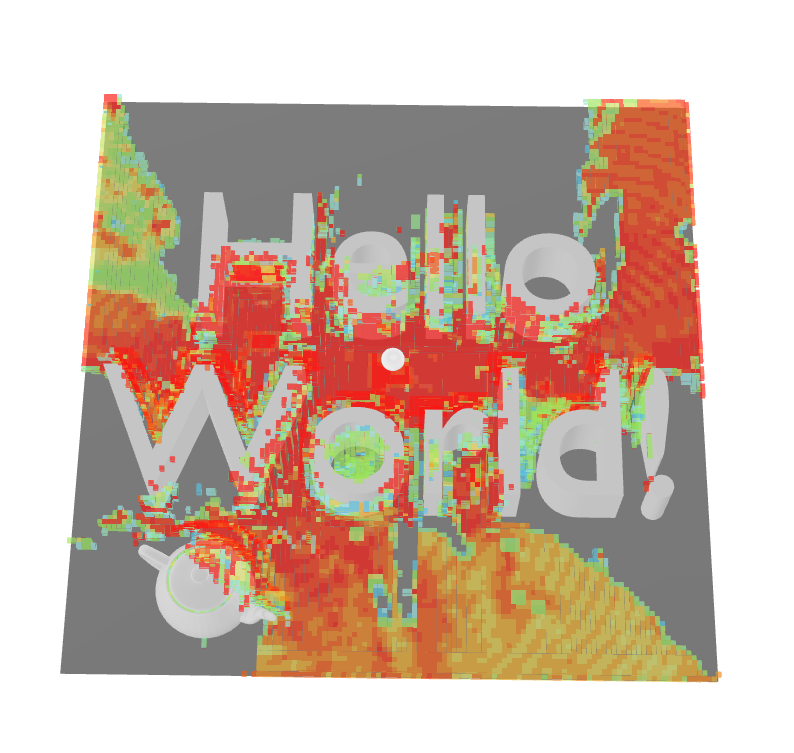
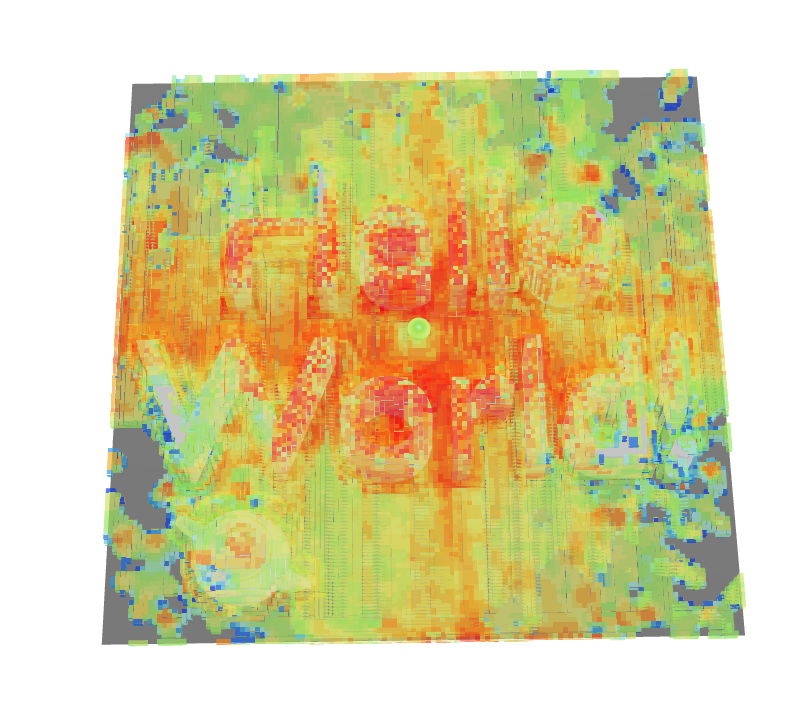
Update hello world demo in-line with gallery changes

diff --git a/bash/3d/README.md b/bash/3d/README.md
@@ -34,35 +34,35 @@ Now that you have uploaded a 3D model, you can run a calculation with the follow
 
 ```bash
 curl  --location --request POST https://api.cloudrf.com/3d --header "key: YOUR_API_KEY_HERE" --header "Content-Type: application/json" --data-raw '{
-"transmitters": [
-        {
-            "frq": 416.0,
-            "txw": 5.0,
-            "pos": {
-                "x": 0.0,
-                "y": 1.5,
-                "z": 0.0
-            },
-            "antenna": {
-                "ant": 1,
-                "txg": 2.15,
-                "txl": 0.0
-            }
-        }
-    ],
-    "3d": {
-        "input_file": "hello_world.glb",
-        "max_reflections": 3
-    },
-    "output": {
-        "res": 0.2,
-        "col": "RAINBOW.dBm",
-        "out": 2
-    },
-    "receiver": {
-        "rxs": -100,
-        "rxg": 0.0
+  "transmitters": [
+    {
+      "frq": 1000,
+      "txw": 5,
+      "pos": {
+        "x": 0,
+        "y": 1.5,
+        "z": 0
+      },
+      "antenna": {
+        "ant": 1,
+        "txg": 2.15,
+        "txl": 0
+      }
     }
+  ],
+  "3d": {
+    "input_file": "hello_world.glb",
+    "max_reflections": 25
+  },
+  "output": {
+    "res": 0.2,
+    "col": "RAINBOW.dBm",
+    "out": 2
+  },
+  "receiver": {
+    "rxs": -110,
+    "rxg": 0
+  }
 }'
 ```
 
@@ -72,7 +72,7 @@ The calculation will take time, but the response will look like the following:
     "model_file": "[model_download_link]",
     "model_viewer": "[model_viewer_link]",
     "file_size_MB": 14.396,
-    "elapsed_s": 25.05
+    "elapsed_s": 8.05
 }
 ```
 For immediate feedback on the result, click the model viewer link. You should see something like the output below. You can also download the model.
